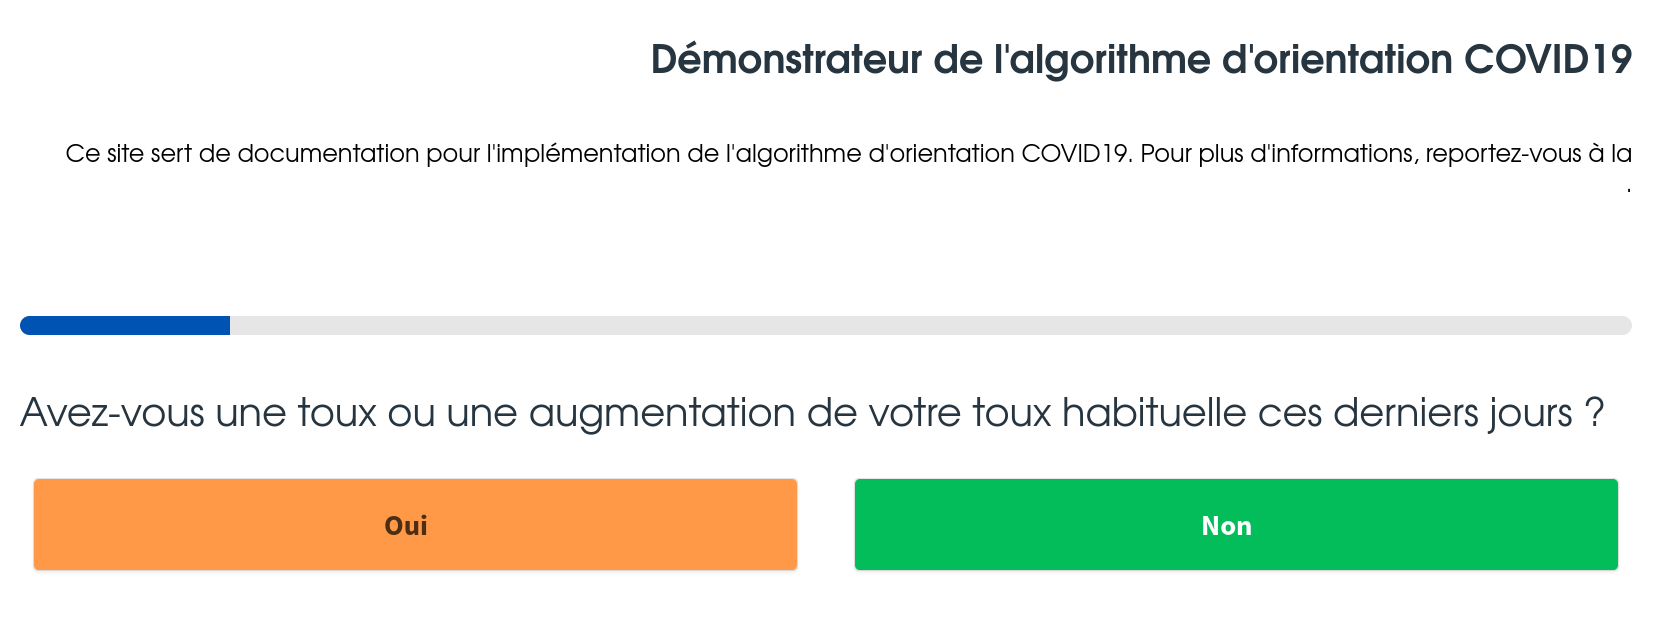
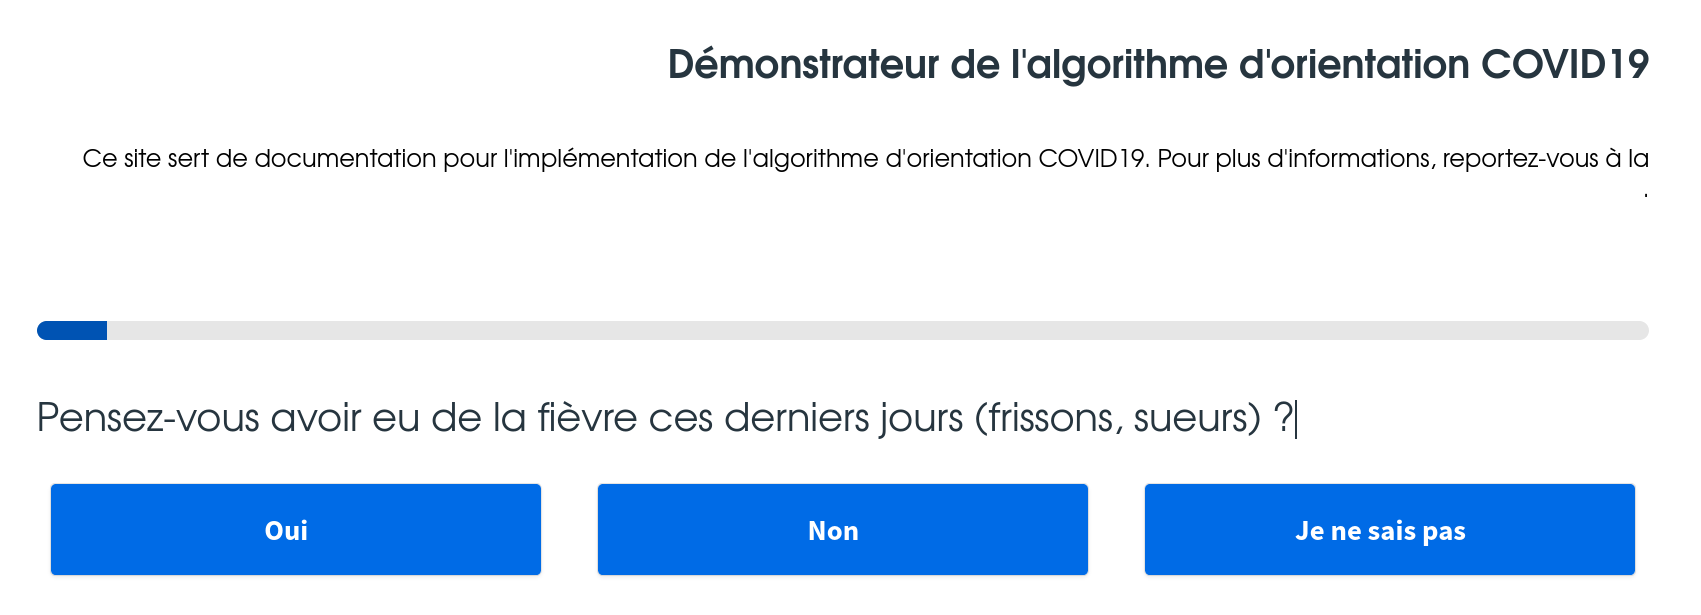
Use only one color for the questions in the "demonstrateur"
See https://github.com/Delegation-numerique-en-sante/covid19-algorithme-orientation/issues/23

diff --git a/docs/js/choices.js b/docs/js/choices.js
@@ -1352,26 +1352,26 @@ null),new r(null,5,[Rp,1,Hr,1,jn,0,Yn,1,Qt,1],null),new r(null,5,[Rp,1,Hr,1,jn,1
 1,Qt,1,Hr,0,jn,0,Rp,0],null),jw,new r(null,5,[Yn,1,Zv,1,Hr,0,jn,0,Rp,0],null),rs,new r(null,5,[lt,1,Dn,1,Hr,0,jn,0,Rp,0],null)],null),Dj([Ls,Mo,Ww,tm,hp,jw,rs,Wr,Lp],[7,"is-warning","Votre situation ne relève probablement pas du Covid-19.\x3cbr/\x3eUn avis médical est recommandé. Au moindre doute, appelez le [15](tel:15).",new r(null,5,[Yn,1,Qt,0,lt,0,Zv,0,Hr,1],null),new r(null,5,[Qt,1,Yn,0,Zv,0,lt,0,Hr,1],null),new r(null,5,[Zv,1,Qt,0,Yn,0,lt,0,Hr,1],null),new r(null,5,[Yn,1,Zv,0,Qt,0,lt,0,jn,1],
 null),new r(null,5,[Yn,0,Zv,0,Qt,1,lt,0,jn,1],null),new r(null,5,[Zv,1,Yn,0,Qt,0,lt,0,jn,1],null)]),new r(null,6,[Ls,8,Mo,"is-info",Ww,"Votre situation ne relève probablement pas du Covid-19.\x3cbr/\x3eConsultez votre médecin au moindre doute.\x3cbr/\x3eSi de nouveaux symptomes apparaissent, refaites le test.",tm,new r(null,5,[Yn,1,Zv,0,Qt,0,lt,0,Hr,0],null),hp,new r(null,5,[Qt,1,Yn,0,Zv,0,lt,0,Hr,0],null),jw,new r(null,5,[Zv,1,Yn,0,Qt,0,lt,0,Hr,0],null)],null),new r(null,4,[Ls,9,Mo,"is-success",
 Ww,"Votre situation ne relève probablement pas du Covid-19. N’hésitez pas à contacter votre médecin en cas de doute.\x3cbr/\x3eVous pouvez refaire le test en cas de nouveau symptôme pour réévaluer la situation.\x3cbr/\x3ePour toute information concernant le Covid-19, composer le 0 800 130 000.",tm,new r(null,4,[Yn,0,lt,0,Qt,0,Zv,0],null)],null)]),new U(null,25,5,X,[new r(null,6,[cr,"0",sx,"COVID19: Algorithme d'orientation - site de démonstration",Mm,!0,Ln,!0,hv,"Ce site est un site de **démonstration** pour l'algorithme d'orientation COVID-19.  Aucune donnée n'est collectée.",
-Mq,new U(null,1,5,X,[new r(null,3,[vt,"Démarrer",rw,"1.1",On,"is-info"],null)],null)],null),new r(null,5,[cr,"1.1",Cv,"[1 23]",sx,"Pensez-vous avoir eu de la fièvre ces derniers jours (frissons, sueurs) ?",Im,!0,Mq,new U(null,3,5,X,[new r(null,4,[vt,"Oui",mt,new r(null,1,[lt,new r(null,1,[tp,1],null)],null),rw,"1.1.1",On,"is-warning"],null),new r(null,3,[vt,"Non",On,"is-success",rw,"1.2"],null),new r(null,4,[vt,"Je ne sais pas",On,"is-warning",rw,"1.2",mt,new r(null,1,[lt,new r(null,1,[tp,1],null)],
-null)],null)],null)],null),new r(null,4,[cr,"1.1.1",Cv,"[2 23]",sx,"Quelle est votre température ?",Mq,new U(null,5,5,X,[new r(null,3,[vt,"**Inférieure** ou égale à 35,4°C",rw,"1.2",On,"is-warning"],null),new r(null,3,[vt,"Entre 35,5 et 37,7°C",rw,"1.2",On,"is-success"],null),new r(null,3,[vt,"Entre 37,8 et 38,9°C",rw,"1.2",On,"is-warning"],null),new r(null,4,[vt,"**Supérieure** ou égale à 39°C",mt,new r(null,1,[Hr,new r(null,1,[tp,1],null)],null),rw,"1.2",On,"is-danger"],null),new r(null,4,[vt,"Je ne sais pas",
-mt,new r(null,1,[Hr,new r(null,1,[tp,1],null)],null),rw,"1.2",On,"is-danger"],null)],null)],null),new r(null,4,[cr,"1.2",Cv,"[3 23]",sx,"Avez-vous une toux ou une augmentation de votre toux habituelle ces derniers jours ?",Mq,new U(null,2,5,X,[new r(null,4,[vt,"Oui",mt,new r(null,1,[Yn,new r(null,1,[tp,1],null)],null),rw,"1.3",On,"is-warning"],null),new r(null,3,[vt,"Non",rw,"1.3",On,"is-success"],null)],null)],null),new r(null,4,[cr,"1.3",Cv,"[4 23]",sx,"Avez-vous noté une forte diminution de votre goût ou de l'odorat ces derniers jours ?",
-Mq,new U(null,2,5,X,[new r(null,4,[vt,"Oui",rw,"1.4",On,"is-warning",mt,new r(null,1,[Zv,new r(null,1,[tp,1],null)],null)],null),new r(null,3,[vt,"Non",rw,"1.4",On,"is-success"],null)],null)],null),new r(null,4,[cr,"1.4",Cv,"[5 23]",sx,"Avez-vous un mal de gorge apparu ces derniers jours ?",Mq,new U(null,2,5,X,[new r(null,4,[vt,"Oui",mt,new r(null,1,[Qt,new r(null,1,[tp,1],null)],null),rw,"1.5",On,"is-warning"],null),new r(null,3,[vt,"Non",rw,"1.5",On,"is-success"],null)],null)],null),new r(null,
-4,[cr,"1.5",Cv,"[6 23]",sx,"Avez-vous de la diarrhée ces dernières 24 heures (au moins 3 selles molles) ?",Mq,new U(null,2,5,X,[new r(null,4,[vt,"Oui",mt,new r(null,1,[Dn,new r(null,1,[tp,1],null)],null),rw,"1.6",On,"is-warning"],null),new r(null,3,[vt,"Non",rw,"1.6",On,"is-success"],null)],null)],null),new r(null,4,[cr,"1.6",Cv,"[7 23]",sx,"Avez-vous une fatigue inhabituelle ces derniers jours ?",Mq,new U(null,2,5,X,[new r(null,3,[vt,"Oui",rw,"1.6.1",On,"is-warning"],null),new r(null,3,[vt,"Non",
-rw,"1.7",On,"is-success"],null)],null)],null),new r(null,4,[cr,"1.6.1",Cv,"[8 23]",sx,"Cette fatigue vous oblige-t-elle à vous reposer plus de la moitié de la journée ?",Mq,new U(null,2,5,X,[new r(null,4,[vt,"Oui",mt,new r(null,1,[xx,new r(null,1,[tp,1],null)],null),rw,"1.7",On,"is-danger"],null),new r(null,3,[vt,"Non",rw,"1.7",On,"is-warning"],null)],null)],null),new r(null,4,[cr,"1.7",Cv,"[9 23]",sx,"Êtes-vous dans l'impossibilité de vous alimenter ou boire DEPUIS 24 HEURES OU PLUS ?",Mq,new U(null,
-2,5,X,[new r(null,4,[vt,"Oui",mt,new r(null,1,[xx,new r(null,1,[tp,1],null)],null),rw,"1.8",On,"is-danger"],null),new r(null,3,[vt,"Non",rw,"1.8",On,"is-success"],null)],null)],null),new r(null,4,[cr,"1.8",Cv,"[10 23]",sx,"Dans les dernières 24 heures, avez-vous noté un manque de souffle INHABITUEL\x3cbr/\x3elorsque vous parlez ou faites un petit effort ?",Mq,new U(null,2,5,X,[new r(null,4,[vt,"Oui",mt,new r(null,1,[xx,new r(null,1,[tp,1],null)],null),rw,"2.1",On,"is-danger"],null),new r(null,3,[vt,
-"Non",rw,"2.1",On,"is-success"],null)],null)],null),new r(null,4,[cr,"2.1",Cv,"[11 23]",sx,"Quel est votre âge ?",Mq,new U(null,4,5,X,[new r(null,4,[vt,"Moins de 15 ans",rw,"fin-moins-de-15-ans",mt,new r(null,1,[js,new r(null,1,[tp,1],null)],null),On,"is-warning"],null),new r(null,3,[vt,"Entre 15 et 50 ans",rw,"2.2",On,"is-success"],null),new r(null,4,[vt,"Entre 50 et 69 ans",mt,new r(null,1,[Rp,new r(null,1,[tp,1],null)],null),rw,"2.2",On,"is-info"],null),new r(null,4,[vt,"70 ans ou plus",rw,"2.2",
-On,"is-danger",mt,new r(null,2,[jn,new r(null,1,[tp,1],null),Rp,new r(null,1,[tp,1],null)],null)],null)],null)],null),new r(null,5,[cr,"2.2",Cv,"[12 23]",sx,"Quel est votre poids en kilogrammes ?",hv,"**Note aux développeurs:** demandez la saisie du poids exact.",Mq,new U(null,6,5,X,[new r(null,4,[vt,"\x3c60",rw,"2.3",On,"is-info",mt,new r(null,1,[wt,new r(null,1,[tp,60],null)],null)],null),new r(null,4,[vt,"60-70",rw,"2.3",On,"is-info",mt,new r(null,1,[wt,new r(null,1,[tp,70],null)],null)],null),
-new r(null,4,[vt,"70-80",rw,"2.3",On,"is-info",mt,new r(null,1,[wt,new r(null,1,[tp,80],null)],null)],null),new r(null,4,[vt,"80-90",rw,"2.3",On,"is-info",mt,new r(null,1,[wt,new r(null,1,[tp,90],null)],null)],null),new r(null,4,[vt,"90-100",rw,"2.3",On,"is-info",mt,new r(null,1,[wt,new r(null,1,[tp,100],null)],null)],null),new r(null,4,[vt,"\x3e100",rw,"2.3",On,"is-info",mt,new r(null,1,[wt,new r(null,1,[tp,110],null)],null)],null)],null)],null),new r(null,5,[cr,"2.3",Cv,"[13 23]",sx,"Quelle est votre taille en mètres ?",
-hv,"**Note aux développeurs:** demandez la saisie de la taille exacte.",Mq,new U(null,6,5,X,[new r(null,4,[vt,"\x3c1m50",rw,"2.4",On,"is-info",mt,new r(null,1,[Qs,new r(null,1,[tp,1.4],null)],null)],null),new r(null,4,[vt,"1m50-1m60",rw,"2.4",On,"is-info",mt,new r(null,1,[Qs,new r(null,1,[tp,1.5],null)],null)],null),new r(null,4,[vt,"1m60-1m70",rw,"2.4",On,"is-info",mt,new r(null,1,[Qs,new r(null,1,[tp,1.6],null)],null)],null),new r(null,4,[vt,"1m70-1m80",rw,"2.4",On,"is-info",mt,new r(null,1,[Qs,
-new r(null,1,[tp,1.7],null)],null)],null),new r(null,4,[vt,"1m80-1m90",rw,"2.4",On,"is-info",mt,new r(null,1,[Qs,new r(null,1,[tp,1.8],null)],null)],null),new r(null,4,[vt,"\x3e1m90",rw,"2.4",On,"is-info",mt,new r(null,1,[Qs,new r(null,1,[tp,1.9],null)],null)],null)],null)],null),new r(null,4,[cr,"2.4",Cv,"[14 23]",sx,"Avez-vous une tension artérielle mal équilibrée ?\x3c/br\x3eOu une maladie cardiaque ou vasculaire ?\x3cbr/\x3eOu prenez-vous un traitement à visée cardiologique ?",Mq,new U(null,3,
-5,X,[new r(null,4,[vt,"Oui",rw,"2.5",On,"is-warning",mt,new r(null,1,[jn,new r(null,1,[tp,1],null)],null)],null),new r(null,3,[vt,"Non",rw,"2.5",On,"is-success"],null),new r(null,4,[vt,"Je ne sais pas",rw,"2.5",On,"is-warning",mt,new r(null,1,[jn,new r(null,1,[tp,1],null)],null)],null)],null)],null),new r(null,4,[cr,"2.5",Cv,"[15 23]",sx,"Êtes-vous diabétique ?",Mq,new U(null,2,5,X,[new r(null,4,[vt,"Oui",rw,"2.6",On,"is-warning",mt,new r(null,1,[jn,new r(null,1,[tp,1],null)],null)],null),new r(null,
-3,[vt,"Non",rw,"2.6",On,"is-success"],null)],null)],null),new r(null,4,[cr,"2.6",Cv,"[16 23]",sx,"Avez-vous ou avez-vous eu un cancer ?",Mq,new U(null,2,5,X,[new r(null,4,[vt,"Oui",rw,"2.7",On,"is-warning",mt,new r(null,1,[jn,new r(null,1,[tp,1],null)],null)],null),new r(null,3,[vt,"Non",rw,"2.7",On,"is-success"],null)],null)],null),new r(null,4,[cr,"2.7",Cv,"[17 23]",sx,"Avez-vous une maladie respiratoire ? Ou êtes-vous suivi par un pneumologue ?",Mq,new U(null,2,5,X,[new r(null,4,[vt,"Oui",rw,"2.8",
-On,"is-warning",mt,new r(null,1,[jn,new r(null,1,[tp,1],null)],null)],null),new r(null,3,[vt,"Non",rw,"2.8",On,"is-success"],null)],null)],null),new r(null,4,[cr,"2.8",Cv,"[18 23]",sx,"Avez-vous une insuffisance rénale chronique dialysée ?",Mq,new U(null,2,5,X,[new r(null,4,[vt,"Oui",rw,"2.9",On,"is-warning",mt,new r(null,1,[jn,new r(null,1,[tp,1],null)],null)],null),new r(null,3,[vt,"Non",rw,"2.9",On,"is-success"],null)],null)],null),new r(null,4,[cr,"2.9",Cv,"[19 23]",sx,"Avez-vous une maladie chronique du foie ?",
-Mq,new U(null,2,5,X,[new r(null,4,[vt,"Oui",rw,"2.10",On,"is-warning",mt,new r(null,1,[jn,new r(null,1,[tp,1],null)],null)],null),new r(null,3,[vt,"Non",rw,"2.10",On,"is-success"],null)],null)],null),new r(null,4,[cr,"2.10",Cv,"[20 23]",sx,"Êtes-vous enceinte ?",Mq,new U(null,3,5,X,[new r(null,4,[vt,"Oui",rw,"2.11",On,"is-warning",mt,new r(null,1,[jn,new r(null,1,[tp,1],null)],null)],null),new r(null,3,[vt,"Non",rw,"2.11",On,"is-success"],null),new r(null,3,[vt,"Non applicable",rw,"2.12",On,"is-info"],
-null)],null)],null),new r(null,4,[cr,"2.11",Cv,"[21 23]",sx,"Avez-vous une maladie connue pour diminuer vos défenses immunitaires ?",Mq,new U(null,3,5,X,[new r(null,4,[vt,"Oui",rw,"2.12",On,"is-warning",mt,new r(null,1,[jn,new r(null,1,[tp,1],null)],null)],null),new r(null,3,[vt,"Non",rw,"2.12",On,"is-success"],null),new r(null,4,[vt,"Je ne sais pas",rw,"2.12",On,"is-warning",mt,new r(null,1,[jn,new r(null,1,[tp,1],null)],null)],null)],null)],null),new r(null,5,[cr,"2.12",Cv,"[22 23]",sx,"Prenez-vous un traitement immunosuppresseur ?",
-hv,"C’est un traitement qui diminue vos défenses contre les infections. Voici quelques exemples : corticoïdes, méthotrexate, ciclosporine, tacrolimus, azathioprine, cyclophosphamide (liste non exhaustive).",Mq,new U(null,3,5,X,[new r(null,4,[vt,"Oui",rw,"fin",On,"is-warning",mt,new r(null,1,[jn,new r(null,1,[tp,1],null)],null)],null),new r(null,3,[vt,"Non",rw,"fin",On,"is-success"],null),new r(null,4,[vt,"Je ne sais pas",rw,"fin",On,"is-warning",mt,new r(null,1,[jn,new r(null,1,[tp,1],null)],null)],
-null)],null)],null),new r(null,3,[cr,"fin-moins-de-15-ans",sx,"Vous avez moins de quinze ans.",Bn,!0],null),new r(null,4,[cr,"fin",sx,"Merci d'avoir utilisé l'algorithme d'orientation COVID-19",hv,"Cet algorithme est potentiellement modifiable après étude de cas et veille scientifique.",Bn,!0],null)],null)]),bL=QC.h(mw.h(aL)),cL=QC.h(mw.h(aL)),dL=QC.h(!1),eL=QC.h(!0),fL=QC.h(""),gL=Fs.h(aL),hL=Zu.h(aL),iL=new r(null,2,[uo,"2em",wu,"none"],null),jL=J(ei(Hc,Rh.c(function(a){return t(Mm.h(a))?Sg.h(cr.h(a)):
-null},mn.h(aL)))),kL=J(ei(Hc,Rh.c(function(a){return t(Im.h(a))?Sg.h(cr.h(a)):null},mn.h(aL))));function lL(a){a=TB(a);a:{var b=E([Kv]);for(var c=rf;;){var d=J(b),e=Bf(c);if(null==d){b=e instanceof A?ji(2,2,M.c(c,0)):ji(2,2,c);break a}yh(Jg,E([d,e]))?(b=Ie(b),c=M.l(c,0,E([d]))):(b=Ie(b),c=M.c(c,d))}}a=VB(a,b);return Hi(mf(Zr,Ie(a)))}
+Mq,new U(null,1,5,X,[new r(null,3,[vt,"Démarrer",rw,"1.1",On,"is-info"],null)],null)],null),new r(null,5,[cr,"1.1",Cv,"[1 23]",sx,"Pensez-vous avoir eu de la fièvre ces derniers jours (frissons, sueurs) ?",Im,!0,Mq,new U(null,3,5,X,[new r(null,4,[vt,"Oui",mt,new r(null,1,[lt,new r(null,1,[tp,1],null)],null),rw,"1.1.1",On,"is-info"],null),new r(null,3,[vt,"Non",On,"is-info",rw,"1.2"],null),new r(null,4,[vt,"Je ne sais pas",On,"is-info",rw,"1.2",mt,new r(null,1,[lt,new r(null,1,[tp,1],null)],null)],
+null)],null)],null),new r(null,4,[cr,"1.1.1",Cv,"[2 23]",sx,"Quelle est votre température ?",Mq,new U(null,5,5,X,[new r(null,3,[vt,"**Inférieure** ou égale à 35,4°C",rw,"1.2",On,"is-info"],null),new r(null,3,[vt,"Entre 35,5 et 37,7°C",rw,"1.2",On,"is-info"],null),new r(null,3,[vt,"Entre 37,8 et 38,9°C",rw,"1.2",On,"is-info"],null),new r(null,4,[vt,"**Supérieure** ou égale à 39°C",mt,new r(null,1,[Hr,new r(null,1,[tp,1],null)],null),rw,"1.2",On,"is-info"],null),new r(null,4,[vt,"Je ne sais pas",mt,
+new r(null,1,[Hr,new r(null,1,[tp,1],null)],null),rw,"1.2",On,"is-info"],null)],null)],null),new r(null,4,[cr,"1.2",Cv,"[3 23]",sx,"Avez-vous une toux ou une augmentation de votre toux habituelle ces derniers jours ?",Mq,new U(null,2,5,X,[new r(null,4,[vt,"Oui",mt,new r(null,1,[Yn,new r(null,1,[tp,1],null)],null),rw,"1.3",On,"is-info"],null),new r(null,3,[vt,"Non",rw,"1.3",On,"is-info"],null)],null)],null),new r(null,4,[cr,"1.3",Cv,"[4 23]",sx,"Avez-vous noté une forte diminution de votre goût ou de l'odorat ces derniers jours ?",
+Mq,new U(null,2,5,X,[new r(null,4,[vt,"Oui",rw,"1.4",On,"is-info",mt,new r(null,1,[Zv,new r(null,1,[tp,1],null)],null)],null),new r(null,3,[vt,"Non",rw,"1.4",On,"is-info"],null)],null)],null),new r(null,4,[cr,"1.4",Cv,"[5 23]",sx,"Avez-vous un mal de gorge apparu ces derniers jours ?",Mq,new U(null,2,5,X,[new r(null,4,[vt,"Oui",mt,new r(null,1,[Qt,new r(null,1,[tp,1],null)],null),rw,"1.5",On,"is-info"],null),new r(null,3,[vt,"Non",rw,"1.5",On,"is-info"],null)],null)],null),new r(null,4,[cr,"1.5",
+Cv,"[6 23]",sx,"Avez-vous de la diarrhée ces dernières 24 heures (au moins 3 selles molles) ?",Mq,new U(null,2,5,X,[new r(null,4,[vt,"Oui",mt,new r(null,1,[Dn,new r(null,1,[tp,1],null)],null),rw,"1.6",On,"is-info"],null),new r(null,3,[vt,"Non",rw,"1.6",On,"is-info"],null)],null)],null),new r(null,4,[cr,"1.6",Cv,"[7 23]",sx,"Avez-vous une fatigue inhabituelle ces derniers jours ?",Mq,new U(null,2,5,X,[new r(null,3,[vt,"Oui",rw,"1.6.1",On,"is-info"],null),new r(null,3,[vt,"Non",rw,"1.7",On,"is-info"],
+null)],null)],null),new r(null,4,[cr,"1.6.1",Cv,"[8 23]",sx,"Cette fatigue vous oblige-t-elle à vous reposer plus de la moitié de la journée ?",Mq,new U(null,2,5,X,[new r(null,4,[vt,"Oui",mt,new r(null,1,[xx,new r(null,1,[tp,1],null)],null),rw,"1.7",On,"is-info"],null),new r(null,3,[vt,"Non",rw,"1.7",On,"is-info"],null)],null)],null),new r(null,4,[cr,"1.7",Cv,"[9 23]",sx,"Êtes-vous dans l'impossibilité de vous alimenter ou boire DEPUIS 24 HEURES OU PLUS ?",Mq,new U(null,2,5,X,[new r(null,4,[vt,"Oui",
+mt,new r(null,1,[xx,new r(null,1,[tp,1],null)],null),rw,"1.8",On,"is-info"],null),new r(null,3,[vt,"Non",rw,"1.8",On,"is-info"],null)],null)],null),new r(null,4,[cr,"1.8",Cv,"[10 23]",sx,"Dans les dernières 24 heures, avez-vous noté un manque de souffle INHABITUEL\x3cbr/\x3elorsque vous parlez ou faites un petit effort ?",Mq,new U(null,2,5,X,[new r(null,4,[vt,"Oui",mt,new r(null,1,[xx,new r(null,1,[tp,1],null)],null),rw,"2.1",On,"is-info"],null),new r(null,3,[vt,"Non",rw,"2.1",On,"is-info"],null)],
+null)],null),new r(null,4,[cr,"2.1",Cv,"[11 23]",sx,"Quel est votre âge ?",Mq,new U(null,4,5,X,[new r(null,4,[vt,"Moins de 15 ans",rw,"fin-moins-de-15-ans",mt,new r(null,1,[js,new r(null,1,[tp,1],null)],null),On,"is-info"],null),new r(null,3,[vt,"Entre 15 et 50 ans",rw,"2.2",On,"is-info"],null),new r(null,4,[vt,"Entre 50 et 69 ans",mt,new r(null,1,[Rp,new r(null,1,[tp,1],null)],null),rw,"2.2",On,"is-info"],null),new r(null,4,[vt,"70 ans ou plus",rw,"2.2",On,"is-info",mt,new r(null,2,[jn,new r(null,
+1,[tp,1],null),Rp,new r(null,1,[tp,1],null)],null)],null)],null)],null),new r(null,5,[cr,"2.2",Cv,"[12 23]",sx,"Quel est votre poids en kilogrammes ?",hv,"**Note aux développeurs:** demandez la saisie du poids exact.",Mq,new U(null,6,5,X,[new r(null,4,[vt,"\x3c60",rw,"2.3",On,"is-info",mt,new r(null,1,[wt,new r(null,1,[tp,60],null)],null)],null),new r(null,4,[vt,"60-70",rw,"2.3",On,"is-info",mt,new r(null,1,[wt,new r(null,1,[tp,70],null)],null)],null),new r(null,4,[vt,"70-80",rw,"2.3",On,"is-info",
+mt,new r(null,1,[wt,new r(null,1,[tp,80],null)],null)],null),new r(null,4,[vt,"80-90",rw,"2.3",On,"is-info",mt,new r(null,1,[wt,new r(null,1,[tp,90],null)],null)],null),new r(null,4,[vt,"90-100",rw,"2.3",On,"is-info",mt,new r(null,1,[wt,new r(null,1,[tp,100],null)],null)],null),new r(null,4,[vt,"\x3e100",rw,"2.3",On,"is-info",mt,new r(null,1,[wt,new r(null,1,[tp,110],null)],null)],null)],null)],null),new r(null,5,[cr,"2.3",Cv,"[13 23]",sx,"Quelle est votre taille en mètres ?",hv,"**Note aux développeurs:** demandez la saisie de la taille exacte.",
+Mq,new U(null,6,5,X,[new r(null,4,[vt,"\x3c1m50",rw,"2.4",On,"is-info",mt,new r(null,1,[Qs,new r(null,1,[tp,1.4],null)],null)],null),new r(null,4,[vt,"1m50-1m60",rw,"2.4",On,"is-info",mt,new r(null,1,[Qs,new r(null,1,[tp,1.5],null)],null)],null),new r(null,4,[vt,"1m60-1m70",rw,"2.4",On,"is-info",mt,new r(null,1,[Qs,new r(null,1,[tp,1.6],null)],null)],null),new r(null,4,[vt,"1m70-1m80",rw,"2.4",On,"is-info",mt,new r(null,1,[Qs,new r(null,1,[tp,1.7],null)],null)],null),new r(null,4,[vt,"1m80-1m90",
+rw,"2.4",On,"is-info",mt,new r(null,1,[Qs,new r(null,1,[tp,1.8],null)],null)],null),new r(null,4,[vt,"\x3e1m90",rw,"2.4",On,"is-info",mt,new r(null,1,[Qs,new r(null,1,[tp,1.9],null)],null)],null)],null)],null),new r(null,4,[cr,"2.4",Cv,"[14 23]",sx,"Avez-vous une tension artérielle mal équilibrée ?\x3c/br\x3eOu une maladie cardiaque ou vasculaire ?\x3cbr/\x3eOu prenez-vous un traitement à visée cardiologique ?",Mq,new U(null,3,5,X,[new r(null,4,[vt,"Oui",rw,"2.5",On,"is-info",mt,new r(null,1,[jn,
+new r(null,1,[tp,1],null)],null)],null),new r(null,3,[vt,"Non",rw,"2.5",On,"is-info"],null),new r(null,4,[vt,"Je ne sais pas",rw,"2.5",On,"is-info",mt,new r(null,1,[jn,new r(null,1,[tp,1],null)],null)],null)],null)],null),new r(null,4,[cr,"2.5",Cv,"[15 23]",sx,"Êtes-vous diabétique ?",Mq,new U(null,2,5,X,[new r(null,4,[vt,"Oui",rw,"2.6",On,"is-info",mt,new r(null,1,[jn,new r(null,1,[tp,1],null)],null)],null),new r(null,3,[vt,"Non",rw,"2.6",On,"is-info"],null)],null)],null),new r(null,4,[cr,"2.6",
+Cv,"[16 23]",sx,"Avez-vous ou avez-vous eu un cancer ?",Mq,new U(null,2,5,X,[new r(null,4,[vt,"Oui",rw,"2.7",On,"is-info",mt,new r(null,1,[jn,new r(null,1,[tp,1],null)],null)],null),new r(null,3,[vt,"Non",rw,"2.7",On,"is-info"],null)],null)],null),new r(null,4,[cr,"2.7",Cv,"[17 23]",sx,"Avez-vous une maladie respiratoire ? Ou êtes-vous suivi par un pneumologue ?",Mq,new U(null,2,5,X,[new r(null,4,[vt,"Oui",rw,"2.8",On,"is-info",mt,new r(null,1,[jn,new r(null,1,[tp,1],null)],null)],null),new r(null,
+3,[vt,"Non",rw,"2.8",On,"is-info"],null)],null)],null),new r(null,4,[cr,"2.8",Cv,"[18 23]",sx,"Avez-vous une insuffisance rénale chronique dialysée ?",Mq,new U(null,2,5,X,[new r(null,4,[vt,"Oui",rw,"2.9",On,"is-info",mt,new r(null,1,[jn,new r(null,1,[tp,1],null)],null)],null),new r(null,3,[vt,"Non",rw,"2.9",On,"is-info"],null)],null)],null),new r(null,4,[cr,"2.9",Cv,"[19 23]",sx,"Avez-vous une maladie chronique du foie ?",Mq,new U(null,2,5,X,[new r(null,4,[vt,"Oui",rw,"2.10",On,"is-info",mt,new r(null,
+1,[jn,new r(null,1,[tp,1],null)],null)],null),new r(null,3,[vt,"Non",rw,"2.10",On,"is-info"],null)],null)],null),new r(null,4,[cr,"2.10",Cv,"[20 23]",sx,"Êtes-vous enceinte ?",Mq,new U(null,3,5,X,[new r(null,4,[vt,"Oui",rw,"2.11",On,"is-info",mt,new r(null,1,[jn,new r(null,1,[tp,1],null)],null)],null),new r(null,3,[vt,"Non",rw,"2.11",On,"is-info"],null),new r(null,3,[vt,"Non applicable",rw,"2.12",On,"is-info"],null)],null)],null),new r(null,4,[cr,"2.11",Cv,"[21 23]",sx,"Avez-vous une maladie connue pour diminuer vos défenses immunitaires ?",
+Mq,new U(null,3,5,X,[new r(null,4,[vt,"Oui",rw,"2.12",On,"is-info",mt,new r(null,1,[jn,new r(null,1,[tp,1],null)],null)],null),new r(null,3,[vt,"Non",rw,"2.12",On,"is-info"],null),new r(null,4,[vt,"Je ne sais pas",rw,"2.12",On,"is-info",mt,new r(null,1,[jn,new r(null,1,[tp,1],null)],null)],null)],null)],null),new r(null,5,[cr,"2.12",Cv,"[22 23]",sx,"Prenez-vous un traitement immunosuppresseur ?",hv,"C’est un traitement qui diminue vos défenses contre les infections. Voici quelques exemples : corticoïdes, méthotrexate, ciclosporine, tacrolimus, azathioprine, cyclophosphamide (liste non exhaustive).",
+Mq,new U(null,3,5,X,[new r(null,4,[vt,"Oui",rw,"fin",On,"is-info",mt,new r(null,1,[jn,new r(null,1,[tp,1],null)],null)],null),new r(null,3,[vt,"Non",rw,"fin",On,"is-info"],null),new r(null,4,[vt,"Je ne sais pas",rw,"fin",On,"is-info",mt,new r(null,1,[jn,new r(null,1,[tp,1],null)],null)],null)],null)],null),new r(null,3,[cr,"fin-moins-de-15-ans",sx,"Vous avez moins de quinze ans.",Bn,!0],null),new r(null,4,[cr,"fin",sx,"Merci d'avoir utilisé l'algorithme d'orientation COVID-19",hv,"Cet algorithme est potentiellement modifiable après étude de cas et veille scientifique.",
+Bn,!0],null)],null)]),bL=QC.h(mw.h(aL)),cL=QC.h(mw.h(aL)),dL=QC.h(!1),eL=QC.h(!0),fL=QC.h(""),gL=Fs.h(aL),hL=Zu.h(aL),iL=new r(null,2,[uo,"2em",wu,"none"],null),jL=J(ei(Hc,Rh.c(function(a){return t(Mm.h(a))?Sg.h(cr.h(a)):null},mn.h(aL)))),kL=J(ei(Hc,Rh.c(function(a){return t(Im.h(a))?Sg.h(cr.h(a)):null},mn.h(aL))));
+function lL(a){a=TB(a);a:{var b=E([Kv]);for(var c=rf;;){var d=J(b),e=Bf(c);if(null==d){b=e instanceof A?ji(2,2,M.c(c,0)):ji(2,2,c);break a}yh(Jg,E([d,e]))?(b=Ie(b),c=M.l(c,0,E([d]))):(b=Ie(b),c=M.c(c,d))}}a=VB(a,b);return Hi(mf(Zr,Ie(a)))}
 var mL=QC.h(new U(null,1,5,X,[new r(null,1,[mt,nm.h(aL)],null)],null)),nL=QC.h(Y),oL=QC.h(Y),pL=hi.c(Y,Rh.c(function(a){return vf([vd(a),bk.l(E([wd(a),Lt.h(aL)]))])},kG)),qL=Sg.h(function(){var a=rh(Fo.h(aL));return t(a)?a:"en"}()),rL=Dh.j(ZK,new r(null,1,[Lo,pL],null),new U(null,1,5,X,[qL],null));
 function sL(a,b){var c=QC.h(null);return vD(new r(null,4,[iu,"clipboard-button",Dp,function(a){a=new ClipboardJS(gE(a));return Mh(c,a)},It,function(){return null==w(c)?null:Mh(c,null)},Ds,function(){var c=X;var e=new U(null,1,5,X,[yw],null);e=rL.h?rL.h(e):rL.call(null,e);return new U(null,3,5,c,[ft,new r(null,3,[Gr,e,Sr,iL,$t,b],null),a],null)}],null))}function tL(a){return"string"===typeof a?Dx(a,/<([^>]+)>/,""):a}
 function uL(a){return hi.c(Yj(function(b,c){return eg(new U(null,2,5,X,[tp.h(z.c(a,c)),c],null),new U(null,2,5,X,[tp.h(z.c(a,b)),b],null))}),a)}
